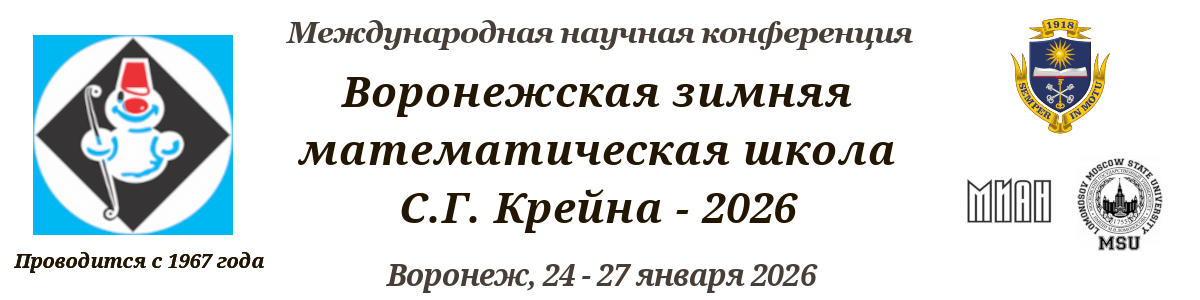
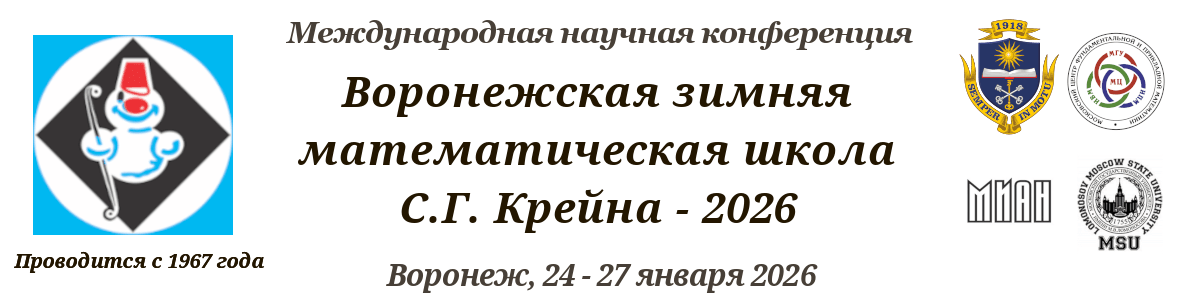
deploy: 0269eba95aa5ce7184887d172df784c1392af089

Changed region(s): [[0.8017, 0.06, 0.9867, 0.45]]

diff --git a/committee.html b/committee.html
@@ -161,6 +161,7 @@
             <li><a href="http://www.mi.ras.ru/">Математический Институт им. В.А. Стеклова РАН</a></li>
             <li><a href="https://www.msu.ru/">Московский Государственный Университет им. М.В. Ломоносова</a></li>
             <li><a href="https://sozvezdie-dmr.su/">АО &laquo;Концерн &laquo;Созвездие&raquo;</a></li>
+            <li><a href="https://mathcenter.ru/">Московский Центр фундаментальной и прикладной математики</a></li>
             <!-- <li><a href="http://www.niilm.ru/ru/">АО &laquo;НИИ ЛМ&raquo;</a></li>
             <li><a href="https://kbkha.ru">АО &laquo;Конструкторское Бюро Химавтоматики&raquo;</a></li> -->
         </ul>

diff --git a/contacts.html b/contacts.html
@@ -111,6 +111,7 @@
             <li><a href="http://www.mi.ras.ru/">Математический Институт им. В.А. Стеклова РАН</a></li>
             <li><a href="https://www.msu.ru/">Московский Государственный Университет им. М.В. Ломоносова</a></li>
             <li><a href="https://sozvezdie-dmr.su/">АО &laquo;Концерн &laquo;Созвездие&raquo;</a></li>
+            <li><a href="https://mathcenter.ru/">Московский Центр фундаментальной и прикладной математики</a></li>
             <!-- <li><a href="http://www.niilm.ru/ru/">АО &laquo;НИИ ЛМ&raquo;</a></li>
             <li><a href="https://kbkha.ru">АО &laquo;Конструкторское Бюро Химавтоматики&raquo;</a></li> -->
         </ul>

diff --git a/contribution.html b/contribution.html
@@ -124,6 +124,7 @@
             <li><a href="http://www.mi.ras.ru/">Математический Институт им. В.А. Стеклова РАН</a></li>
             <li><a href="https://www.msu.ru/">Московский Государственный Университет им. М.В. Ломоносова</a></li>
             <li><a href="https://sozvezdie-dmr.su/">АО &laquo;Концерн &laquo;Созвездие&raquo;</a></li>
+            <li><a href="https://mathcenter.ru/">Московский Центр фундаментальной и прикладной математики</a></li>
             <!-- <li><a href="http://www.niilm.ru/ru/">АО &laquo;НИИ ЛМ&raquo;</a></li>
             <li><a href="https://kbkha.ru">АО &laquo;Конструкторское Бюро Химавтоматики&raquo;</a></li> -->
         </ul>

diff --git a/history.html b/history.html
@@ -164,6 +164,7 @@
             <li><a href="http://www.mi.ras.ru/">Математический Институт им. В.А. Стеклова РАН</a></li>
             <li><a href="https://www.msu.ru/">Московский Государственный Университет им. М.В. Ломоносова</a></li>
             <li><a href="https://sozvezdie-dmr.su/">АО &laquo;Концерн &laquo;Созвездие&raquo;</a></li>
+            <li><a href="https://mathcenter.ru/">Московский Центр фундаментальной и прикладной математики</a></li>
             <!-- <li><a href="http://www.niilm.ru/ru/">АО &laquo;НИИ ЛМ&raquo;</a></li>
             <li><a href="https://kbkha.ru">АО &laquo;Конструкторское Бюро Химавтоматики&raquo;</a></li> -->
         </ul>

diff --git a/index.html b/index.html
@@ -140,6 +140,7 @@
             <li><a href="http://www.mi.ras.ru/">Математический Институт им. В.А. Стеклова РАН</a></li>
             <li><a href="https://www.msu.ru/">Московский Государственный Университет им. М.В. Ломоносова</a></li>
             <li><a href="https://sozvezdie-dmr.su/">АО &laquo;Концерн &laquo;Созвездие&raquo;</a></li>
+            <li><a href="https://mathcenter.ru/">Московский Центр фундаментальной и прикладной математики</a></li>
             <!-- <li><a href="http://www.niilm.ru/ru/">АО &laquo;НИИ ЛМ&raquo;</a></li>
             <li><a href="https://kbkha.ru">АО &laquo;Конструкторское Бюро Химавтоматики&raquo;</a></li> -->
         </ul>

diff --git a/information.html b/information.html
@@ -109,6 +109,7 @@
             <li><a href="http://www.mi.ras.ru/">Математический Институт им. В.А. Стеклова РАН</a></li>
             <li><a href="https://www.msu.ru/">Московский Государственный Университет им. М.В. Ломоносова</a></li>
             <li><a href="https://sozvezdie-dmr.su/">АО &laquo;Концерн &laquo;Созвездие&raquo;</a></li>
+            <li><a href="https://mathcenter.ru/">Московский Центр фундаментальной и прикладной математики</a></li>
             <!-- <li><a href="http://www.niilm.ru/ru/">АО &laquo;НИИ ЛМ&raquo;</a></li>
             <li><a href="https://kbkha.ru">АО &laquo;Конструкторское Бюро Химавтоматики&raquo;</a></li> -->
         </ul>

diff --git a/place.html b/place.html
@@ -122,6 +122,7 @@
             <li><a href="http://www.mi.ras.ru/">Математический Институт им. В.А. Стеклова РАН</a></li>
             <li><a href="https://www.msu.ru/">Московский Государственный Университет им. М.В. Ломоносова</a></li>
             <li><a href="https://sozvezdie-dmr.su/">АО &laquo;Концерн &laquo;Созвездие&raquo;</a></li>
+            <li><a href="https://mathcenter.ru/">Московский Центр фундаментальной и прикладной математики</a></li>
             <!-- <li><a href="http://www.niilm.ru/ru/">АО &laquo;НИИ ЛМ&raquo;</a></li>
             <li><a href="https://kbkha.ru">АО &laquo;Конструкторское Бюро Химавтоматики&raquo;</a></li> -->
         </ul>

diff --git a/program.html b/program.html
@@ -107,6 +107,7 @@
             <li><a href="http://www.mi.ras.ru/">Математический Институт им. В.А. Стеклова РАН</a></li>
             <li><a href="https://www.msu.ru/">Московский Государственный Университет им. М.В. Ломоносова</a></li>
             <li><a href="https://sozvezdie-dmr.su/">АО &laquo;Концерн &laquo;Созвездие&raquo;</a></li>
+            <li><a href="https://mathcenter.ru/">Московский Центр фундаментальной и прикладной математики</a></li>
             <!-- <li><a href="http://www.niilm.ru/ru/">АО &laquo;НИИ ЛМ&raquo;</a></li>
             <li><a href="https://kbkha.ru">АО &laquo;Конструкторское Бюро Химавтоматики&raquo;</a></li> -->
         </ul>

diff --git a/registration.html b/registration.html
@@ -104,6 +104,7 @@
             <li><a href="http://www.mi.ras.ru/">Математический Институт им. В.А. Стеклова РАН</a></li>
             <li><a href="https://www.msu.ru/">Московский Государственный Университет им. М.В. Ломоносова</a></li>
             <li><a href="https://sozvezdie-dmr.su/">АО &laquo;Концерн &laquo;Созвездие&raquo;</a></li>
+            <li><a href="https://mathcenter.ru/">Московский Центр фундаментальной и прикладной математики</a></li>
             <!-- <li><a href="http://www.niilm.ru/ru/">АО &laquo;НИИ ЛМ&raquo;</a></li>
             <li><a href="https://kbkha.ru">АО &laquo;Конструкторское Бюро Химавтоматики&raquo;</a></li> -->
         </ul>

diff --git a/rules.html b/rules.html
@@ -106,6 +106,7 @@
             <li><a href="http://www.mi.ras.ru/">Математический Институт им. В.А. Стеклова РАН</a></li>
             <li><a href="https://www.msu.ru/">Московский Государственный Университет им. М.В. Ломоносова</a></li>
             <li><a href="https://sozvezdie-dmr.su/">АО &laquo;Концерн &laquo;Созвездие&raquo;</a></li>
+            <li><a href="https://mathcenter.ru/">Московский Центр фундаментальной и прикладной математики</a></li>
             <!-- <li><a href="http://www.niilm.ru/ru/">АО &laquo;НИИ ЛМ&raquo;</a></li>
             <li><a href="https://kbkha.ru">АО &laquo;Конструкторское Бюро Химавтоматики&raquo;</a></li> -->
         </ul>
